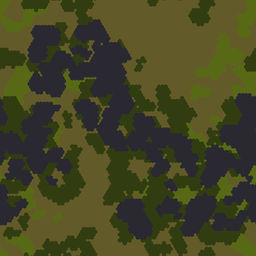
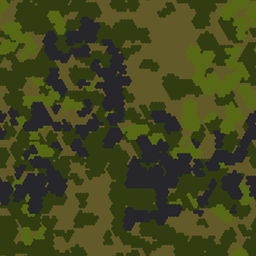
fix: M05 風 森林型の面積比を量産布地に合わせ、チャコールグレーを近黒に
Commons の登録図面スキャンは形状・ドット格子の根拠にはなるが、量産布地の写真 4 枚とは
色・面積比が食い違う。スキャンはカーキ 0.36 / チャコール 0.28 だが、量産布地は
グリーンが最大 (0.35〜0.45) でチャコールは 0.18〜0.19。層順をグリーン → ライトグリーン →
チャコールにし、グリーンを地色より広く、チャコールは中サイズの斑が散る版にした。
チャコールグレーは実物写真でほぼ黒に見えるため #2a2932 → #26262b (彩度 0.12) に。
m05 のスナップショットのみ更新。

diff --git a/src/core/camo.js b/src/core/camo.js
@@ -3039,14 +3039,18 @@ export const PRESETS = {
   /* ---- フィンランド M05 (2005〜)。点描様式の斑点配置 ---- */
   m05: {
     // フィンランド国防軍 M05 森林型。実物の特徴:
-    //   - 4 色。カーキの地布に、ライトグリーン / グリーン / チャコールグレーの 3 版。可視面積比の実測は
-    //     0.363 / 0.098 / 0.255 / 0.284 (refs/private/m05.jpg、k=4)
+    //   - 4 色。カーキの地布に、グリーン / ライトグリーン / チャコールグレーの 3 版。
+    //     **面積比は Commons の登録図面スキャン (refs/private/m05.jpg) と量産布地で違う**: スキャンは
+    //     カーキ 0.363 / ライトグリーン 0.098 / グリーン 0.255 / チャコール 0.284 だが、実物布地の写真
+    //     (refs/private/m05_extra/ の joint-forces.com スタジオ接写・camopedia スウォッチ、--flatten で量子化) は
+    //     グリーンが最大 (0.35〜0.45) でカーキ 0.18〜0.25、チャコールは 0.18〜0.19 と小さい。
+    //     生成は量産布地側に合わせる (スキャンは形状・ドット格子の根拠にのみ使う)
     //   - **輪郭が六方格子上の円形ドットの集合で階段化する** (点描)。境界画素の自己相関で格子ベクトル
     //     (0,8)・(±7,±4)・2 次 (14,0) [画像原寸 px] を実測し、ピッチ ≈ 8px の正三角格子、ドット直径 ≈ 10〜11px。
     //     ピクセル系 (genGrowth の直交階段) ともブロブ系 (滑らかな輪郭) とも違う識別点で、これが無いと
     //     M05 に見えない → P.dots (applyDots) で層スタンプ後に格子ドットで描き直す
-    //   - 暗色 2 版 (グリーン・チャコールグレー) は同じ塊に隣接して現れ、塊の外は地色が広く残る。
-    //     グリーンは塊の外縁側、チャコールグレーは芯側 (フレックターンの暗色 2 版と同じ構造 → clump の field 共有)
+    //   - チャコールグレーは中サイズの斑としてグリーン域の中とカーキとの境目に散り、巨大な塊は作らない。
+    //     グリーンと同じ密度場 (field 共有) で thr を高く取り、グリーンの濃い所に乗せる
     //   - ライトグリーンも一様に散らず固まる (参照の塊り比 窓 128px: ライトグリーン 59.3 / 地 47.9 /
     //     グリーン 53.1 / チャコールグレー 61.4)。独立した密度場 (field: 1) で偏在させる
     //   - 斑は融合して枝のある塊になり、孤立した 1〜3 ドットの小片も散る → gap 負 + r の下限を 1 ドット強に
@@ -3054,17 +3058,20 @@ export const PRESETS = {
     //   とどめる方針 (docs/04-add-preset.md §1 商標・意匠) に従い、ソース図案は作らず手続き生成する
     name: 'M05 風 (フィンランド 森林型)', kind: 'spots', ref: 'm05',
     // r は「512px・scale 1.0」基準の平均半径 px。frac は「その版が塗る面積比」(後の版に覆われる分を含む)。
-    // 参照の可視面積比 0.363 / 0.098 / 0.255 / 0.284 に対し、生成結果 (512px・scale 1.0・3 シード平均) は
-    // 0.334 / 0.107 / 0.268 / 0.290 (塊が 512px に対して大きいため 1 シードでは ±0.1 振れる)。tools/analyze-spots.mjs の塊り比 (窓 128px) も参照と同じ順位 (チャコールグレー > ライトグリーン > 地 > グリーン)
+    // 可視面積比のターゲットは量産布地 カーキ 0.25 / ライトグリーン 0.12 / グリーン 0.45 / チャコール 0.18。
+    // 生成結果 (512px・scale 1.0・3 シード平均) は 0.285 / 0.127 / 0.387 / 0.201。
+    // tools/analyze-spots.mjs の塊り比 (窓 128px) はチャコールが 4 版中最大 (実物写真でも同じ順位)
     layers: [
-      {color: 1, frac: 0.20, r: [7, 28], elong: [0.22, 0.55], lobe: [0.12, 0.32], wobble: 0.12, gap: -0.36, over: 0.8,
-       clump: {cell: 200, thr: 0.48, soft: 0.22, field: 1}},
-      // グリーンはチャコールグレーより先に刷り、同じ密度場で thr を低く取る → チャコールグレーの塊を
-      // ひと回り大きく囲む「外縁」として残る (参照でグリーンの r50 が 3.5 と断片的なのはこのため)
-      {color: 2, frac: 0.46, r: [7, 30], elong: [0.22, 0.55], lobe: [0.12, 0.32], wobble: 0.12, gap: -0.40, over: 0.8,
-       clump: {cell: 200, thr: 0.30, soft: 0.30, field: 0}},
-      {color: 3, frac: 0.30, r: [7, 34], elong: [0.22, 0.55], lobe: [0.12, 0.32], wobble: 0.12, gap: -0.40, over: 0.8,
-       clump: {cell: 200, thr: 0.42, soft: 0.22, field: 0}},
+      // グリーンは実物では最大面積の版で、地色 (カーキ) より広い。最初に刷り、チャコールグレーと同じ
+      // 密度場で thr を低く取る → チャコールグレーの斑はグリーンの中とカーキとの境目に乗る
+      {color: 2, frac: 0.60, r: [8, 34], elong: [0.22, 0.55], lobe: [0.12, 0.32], wobble: 0.12, gap: -0.40, over: 0.8,
+       clump: {cell: 200, thr: 0.20, soft: 0.36, field: 0}},
+      // ライトグリーンはグリーンの上に乗る小〜中の斑 (実物写真ではグリーン域の中に点々と現れる)
+      {color: 1, frac: 0.13, r: [6, 22], elong: [0.22, 0.55], lobe: [0.12, 0.32], wobble: 0.12, gap: -0.30, over: 0.8,
+       clump: {cell: 200, thr: 0.40, soft: 0.30, field: 1}},
+      // チャコールグレーは中サイズの斑が散る版で、巨大な塊は作らない (実物写真の可視面積 0.18〜0.19)
+      {color: 3, frac: 0.19, r: [6, 24], elong: [0.22, 0.55], lobe: [0.12, 0.32], wobble: 0.12, gap: -0.36, over: 0.8,
+       clump: {cell: 200, thr: 0.40, soft: 0.28, field: 0}},
     ],
     // 格子ピッチ 6.6 = 参照 2 枚のピッチ (8〜8.5px) を render.mjs --compare の cover 縮小率 (0.766 / 0.813) で
     // 512px 基準に換算した値。r 0.65 はドット直径 10〜11px ÷ ピッチ 8px の半分
@@ -3074,15 +3081,14 @@ export const PRESETS = {
     // 実測: node tools/extract-palette.mjs refs/private/m05.jpg 4 --core=2 --max-edge=918 --blur=1.5
     // (布地の写真。織り目を --blur で落とす。k=6 に上げても増えるのはカーキの明部 / 暗部で、版は 4 のまま)
     // 最暗版 (チャコールグレー) だけは Commons スキャンの値 #273126 (H 115、緑寄り) を採らない。
-    // 同スキャンは意匠登録図面の Uncalibrated 画像で、実物布地の写真 (日光下の着用写真 2 枚・スタジオ接写・
-    // Camopedia スウォッチ) では最暗版はいずれも青〜青紫のグレー (H 223 / 235 / 254 / 297、S 0.14〜0.30)。
-    // Wikipedia の色記述も「charcoal gray」。→ 明度は他 3 色と同じスキャン基準 (V 50) に揃え、
-    // 色相 245・彩度 0.18 を日光写真 2 枚の暗色中央値 (#43444e / #40444e) から採った
+    // 同スキャンは意匠登録図面の Uncalibrated 画像で、実物布地の写真では最暗版はほぼ黒に見え、
+    // 色相はわずかに寒色 (日光下 #43444e / #40444e、スタジオ #2d2527)。→ 明度は他 3 色と同じスキャン基準
+    // (V 43)、彩度は 0.12 に抑えた近黒のグレーにする (青みを残しすぎるとネイビーに見える)
     colors: [
       {name:'カーキ',        hex:'#635a29'},
       {name:'ライトグリーン', hex:'#586916'},
       {name:'グリーン',      hex:'#313d11'},
-      {name:'チャコールグレー', hex:'#2a2932'},
+      {name:'チャコールグレー', hex:'#26262b'},
     ],
   },
   m05_snow: {

diff --git a/prototype/index.html b/prototype/index.html
@@ -3245,14 +3245,18 @@ const PRESETS = {
   /* ---- フィンランド M05 (2005〜)。点描様式の斑点配置 ---- */
   m05: {
     // フィンランド国防軍 M05 森林型。実物の特徴:
-    //   - 4 色。カーキの地布に、ライトグリーン / グリーン / チャコールグレーの 3 版。可視面積比の実測は
-    //     0.363 / 0.098 / 0.255 / 0.284 (refs/private/m05.jpg、k=4)
+    //   - 4 色。カーキの地布に、グリーン / ライトグリーン / チャコールグレーの 3 版。
+    //     **面積比は Commons の登録図面スキャン (refs/private/m05.jpg) と量産布地で違う**: スキャンは
+    //     カーキ 0.363 / ライトグリーン 0.098 / グリーン 0.255 / チャコール 0.284 だが、実物布地の写真
+    //     (refs/private/m05_extra/ の joint-forces.com スタジオ接写・camopedia スウォッチ、--flatten で量子化) は
+    //     グリーンが最大 (0.35〜0.45) でカーキ 0.18〜0.25、チャコールは 0.18〜0.19 と小さい。
+    //     生成は量産布地側に合わせる (スキャンは形状・ドット格子の根拠にのみ使う)
     //   - **輪郭が六方格子上の円形ドットの集合で階段化する** (点描)。境界画素の自己相関で格子ベクトル
     //     (0,8)・(±7,±4)・2 次 (14,0) [画像原寸 px] を実測し、ピッチ ≈ 8px の正三角格子、ドット直径 ≈ 10〜11px。
     //     ピクセル系 (genGrowth の直交階段) ともブロブ系 (滑らかな輪郭) とも違う識別点で、これが無いと
     //     M05 に見えない → P.dots (applyDots) で層スタンプ後に格子ドットで描き直す
-    //   - 暗色 2 版 (グリーン・チャコールグレー) は同じ塊に隣接して現れ、塊の外は地色が広く残る。
-    //     グリーンは塊の外縁側、チャコールグレーは芯側 (フレックターンの暗色 2 版と同じ構造 → clump の field 共有)
+    //   - チャコールグレーは中サイズの斑としてグリーン域の中とカーキとの境目に散り、巨大な塊は作らない。
+    //     グリーンと同じ密度場 (field 共有) で thr を高く取り、グリーンの濃い所に乗せる
     //   - ライトグリーンも一様に散らず固まる (参照の塊り比 窓 128px: ライトグリーン 59.3 / 地 47.9 /
     //     グリーン 53.1 / チャコールグレー 61.4)。独立した密度場 (field: 1) で偏在させる
     //   - 斑は融合して枝のある塊になり、孤立した 1〜3 ドットの小片も散る → gap 負 + r の下限を 1 ドット強に
@@ -3260,17 +3264,20 @@ const PRESETS = {
     //   とどめる方針 (docs/04-add-preset.md §1 商標・意匠) に従い、ソース図案は作らず手続き生成する
     name: 'M05 風 (フィンランド 森林型)', kind: 'spots', ref: 'm05',
     // r は「512px・scale 1.0」基準の平均半径 px。frac は「その版が塗る面積比」(後の版に覆われる分を含む)。
-    // 参照の可視面積比 0.363 / 0.098 / 0.255 / 0.284 に対し、生成結果 (512px・scale 1.0・3 シード平均) は
-    // 0.334 / 0.107 / 0.268 / 0.290 (塊が 512px に対して大きいため 1 シードでは ±0.1 振れる)。tools/analyze-spots.mjs の塊り比 (窓 128px) も参照と同じ順位 (チャコールグレー > ライトグリーン > 地 > グリーン)
+    // 可視面積比のターゲットは量産布地 カーキ 0.25 / ライトグリーン 0.12 / グリーン 0.45 / チャコール 0.18。
+    // 生成結果 (512px・scale 1.0・3 シード平均) は 0.285 / 0.127 / 0.387 / 0.201。
+    // tools/analyze-spots.mjs の塊り比 (窓 128px) はチャコールが 4 版中最大 (実物写真でも同じ順位)
     layers: [
-      {color: 1, frac: 0.20, r: [7, 28], elong: [0.22, 0.55], lobe: [0.12, 0.32], wobble: 0.12, gap: -0.36, over: 0.8,
-       clump: {cell: 200, thr: 0.48, soft: 0.22, field: 1}},
-      // グリーンはチャコールグレーより先に刷り、同じ密度場で thr を低く取る → チャコールグレーの塊を
-      // ひと回り大きく囲む「外縁」として残る (参照でグリーンの r50 が 3.5 と断片的なのはこのため)
-      {color: 2, frac: 0.46, r: [7, 30], elong: [0.22, 0.55], lobe: [0.12, 0.32], wobble: 0.12, gap: -0.40, over: 0.8,
-       clump: {cell: 200, thr: 0.30, soft: 0.30, field: 0}},
-      {color: 3, frac: 0.30, r: [7, 34], elong: [0.22, 0.55], lobe: [0.12, 0.32], wobble: 0.12, gap: -0.40, over: 0.8,
-       clump: {cell: 200, thr: 0.42, soft: 0.22, field: 0}},
+      // グリーンは実物では最大面積の版で、地色 (カーキ) より広い。最初に刷り、チャコールグレーと同じ
+      // 密度場で thr を低く取る → チャコールグレーの斑はグリーンの中とカーキとの境目に乗る
+      {color: 2, frac: 0.60, r: [8, 34], elong: [0.22, 0.55], lobe: [0.12, 0.32], wobble: 0.12, gap: -0.40, over: 0.8,
+       clump: {cell: 200, thr: 0.20, soft: 0.36, field: 0}},
+      // ライトグリーンはグリーンの上に乗る小〜中の斑 (実物写真ではグリーン域の中に点々と現れる)
+      {color: 1, frac: 0.13, r: [6, 22], elong: [0.22, 0.55], lobe: [0.12, 0.32], wobble: 0.12, gap: -0.30, over: 0.8,
+       clump: {cell: 200, thr: 0.40, soft: 0.30, field: 1}},
+      // チャコールグレーは中サイズの斑が散る版で、巨大な塊は作らない (実物写真の可視面積 0.18〜0.19)
+      {color: 3, frac: 0.19, r: [6, 24], elong: [0.22, 0.55], lobe: [0.12, 0.32], wobble: 0.12, gap: -0.36, over: 0.8,
+       clump: {cell: 200, thr: 0.40, soft: 0.28, field: 0}},
     ],
     // 格子ピッチ 6.6 = 参照 2 枚のピッチ (8〜8.5px) を render.mjs --compare の cover 縮小率 (0.766 / 0.813) で
     // 512px 基準に換算した値。r 0.65 はドット直径 10〜11px ÷ ピッチ 8px の半分
@@ -3280,15 +3287,14 @@ const PRESETS = {
     // 実測: node tools/extract-palette.mjs refs/private/m05.jpg 4 --core=2 --max-edge=918 --blur=1.5
     // (布地の写真。織り目を --blur で落とす。k=6 に上げても増えるのはカーキの明部 / 暗部で、版は 4 のまま)
     // 最暗版 (チャコールグレー) だけは Commons スキャンの値 #273126 (H 115、緑寄り) を採らない。
-    // 同スキャンは意匠登録図面の Uncalibrated 画像で、実物布地の写真 (日光下の着用写真 2 枚・スタジオ接写・
-    // Camopedia スウォッチ) では最暗版はいずれも青〜青紫のグレー (H 223 / 235 / 254 / 297、S 0.14〜0.30)。
-    // Wikipedia の色記述も「charcoal gray」。→ 明度は他 3 色と同じスキャン基準 (V 50) に揃え、
-    // 色相 245・彩度 0.18 を日光写真 2 枚の暗色中央値 (#43444e / #40444e) から採った
+    // 同スキャンは意匠登録図面の Uncalibrated 画像で、実物布地の写真では最暗版はほぼ黒に見え、
+    // 色相はわずかに寒色 (日光下 #43444e / #40444e、スタジオ #2d2527)。→ 明度は他 3 色と同じスキャン基準
+    // (V 43)、彩度は 0.12 に抑えた近黒のグレーにする (青みを残しすぎるとネイビーに見える)
     colors: [
       {name:'カーキ',        hex:'#635a29'},
       {name:'ライトグリーン', hex:'#586916'},
       {name:'グリーン',      hex:'#313d11'},
-      {name:'チャコールグレー', hex:'#2a2932'},
+      {name:'チャコールグレー', hex:'#26262b'},
     ],
   },
   m05_snow: {

diff --git a/docs/01-tech-verification.md b/docs/01-tech-verification.md
@@ -176,7 +176,7 @@
 - **ソース図案と同じ量子化重心をパレットにする**選択肢がある。照明ムラで `extract-palette.mjs` の砂色が明部 / 暗部に割れるとき、`gen-src.mjs` が stderr に出す重心を採れば形状と色が同じクラスタリングに基づく
 - **文献と実測が食い違ったら実測を優先**する。フロッグスキンのビーチ面は文献では 3 色だが入手したスウォッチは 4 色。M1942 は製造元・時期で配色に幅がある
 - **参照写真の色被りは補正しない**。青寄りの写真からダークグリーンが青緑として測れても実測値のまま採用し、中立な参照が入手できたら測り直す
-- **登録図面や資料のスキャン 1 枚を色の唯一の根拠にしない**。M05 の Commons 画像は意匠登録図面の Uncalibrated スキャンで、最暗版が緑寄り（H 115）に出るが、実物布地の写真 4 枚（日光 / スタジオ / 別サイトのスウォッチ）では一様に青〜青紫のグレー（H 223〜297）だった。形状・面積比の根拠になる 1 枚でも色相は疑い、複数の写真で**色相の一致**を見る。写真ごとに露出・白バランスが違うので、明度は形状の参照と同じ画像に揃え、色相・彩度だけ写真の中央値から採る。k-means が照明で割れる着用写真は、暗部を b ≧ g で 2 分した中央値で色相を読める
+- **登録図面や資料のスキャン 1 枚を色・面積比の唯一の根拠にしない**。M05 の登録図面スキャンでは最暗版の面積比が 0.28 だが、量産布地の写真では 0.18 でグリーンが最大面積（スキャンはカーキが最大）。形状・格子の根拠にした画像でも、色と面積比は量産品の写真で裏を取る。M05 の Commons 画像は意匠登録図面の Uncalibrated スキャンで、最暗版が緑寄り（H 115）に出るが、実物布地の写真 4 枚（日光 / スタジオ / 別サイトのスウォッチ）では一様に青〜青紫のグレー（H 223〜297）だった。形状・面積比の根拠になる 1 枚でも色相は疑い、複数の写真で**色相の一致**を見る。写真ごとに露出・白バランスが違うので、明度は形状の参照と同じ画像に揃え、色相・彩度だけ写真の中央値から採る。k-means が照明で割れる着用写真は、暗部を b ≧ g で 2 分した中央値で色相を読める
 - **Issue 本文の色・層構造は参照と食い違うことがある**。「濃紺」は襞の影、「淡い地に緑の塊」は実物の色反転だった。実装は参照の実測に合わせる
 - **1 枚の写真から分布を読まない**。布地写真は大きなリピートの一部しか写っておらず、ある版が固まって写る一場面から「その版は塊としてだけ現れる」と読むと逆になる（実際は 3 版中もっとも一様に散る版だった）。全体が見えるスウォッチで塊り比を測る
 - **参照の縮尺は比較ツールの表示と同じ係数で換算する**。`render.mjs --compare` は参照を cover で縮小するので、4:3 の写真を正方形に並べると高さ基準の 0.667 倍になる。0.5 倍で組むと統計は「一致」なのに `--compare` で一段細かく見える
